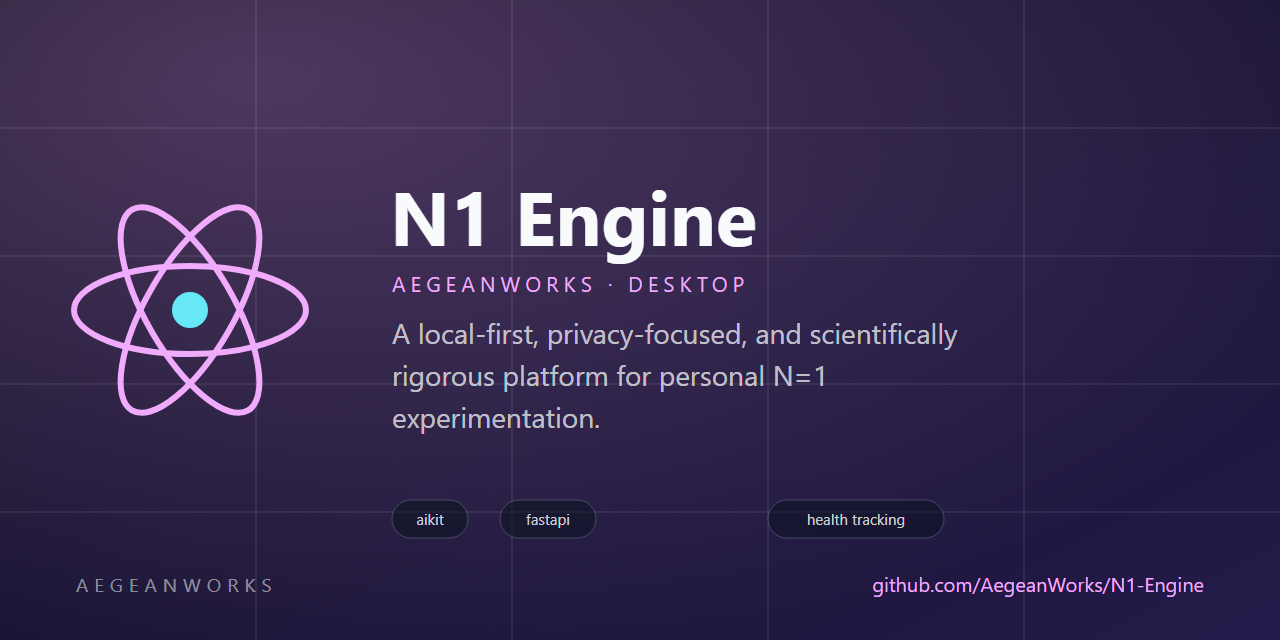
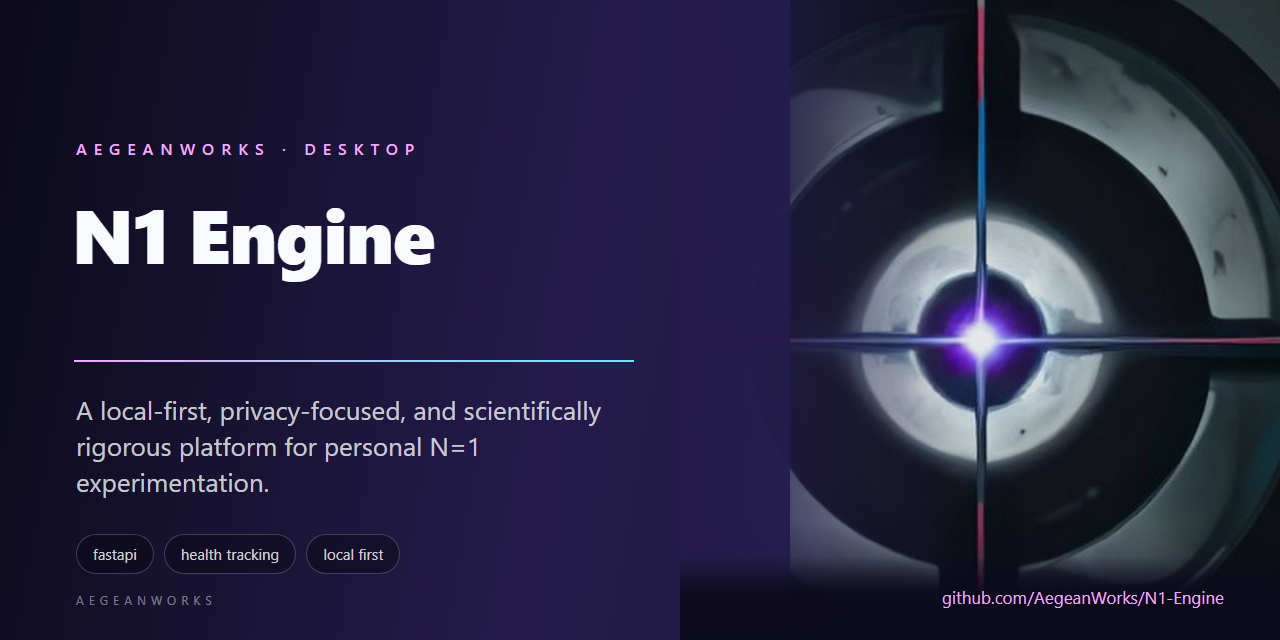
feat(brand): replace procedural marks with reviewed AI-art identities

diff --git a/README.md b/README.md
@@ -1,8 +1,8 @@
 # N1-Engine
 
 <!-- aegean:media:start -->
-<p align="center"><img src="assets/logo.svg" alt="N1-Engine logo" width="96" height="96"></p>
-<p align="center"><img src="assets/social-preview.svg" alt="N1-Engine social preview" width="100%"></p>
+<p align="center"><img src="assets/logo.png" alt="N1-Engine logo" width="96" height="96"></p>
+<p align="center"><img src="assets/social-preview.png" alt="N1-Engine social preview" width="100%"></p>
 <!-- aegean:media:end -->
 
 [![AIKit Integrated](https://img.shields.io/badge/AIKit-integrated-6f42c1)](https://github.com/AegeanWorks/AIKit)
